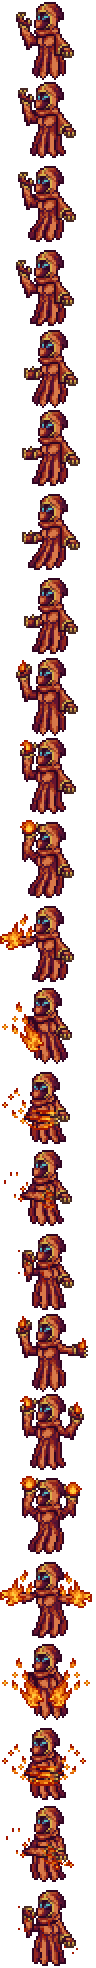
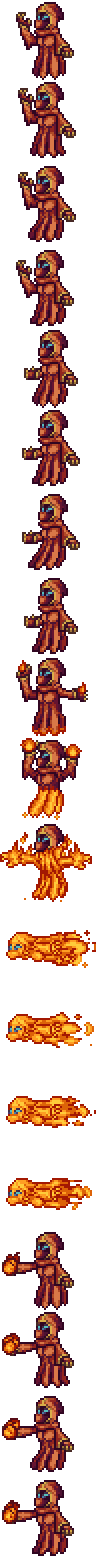
A lot of Ashe bug fix and some tweak for her

diff --git a/NPCs/Bosses/AH/Ashe/Ashe.cs b/NPCs/Bosses/AH/Ashe/Ashe.cs
@@ -14,8 +14,7 @@ namespace AAMod.NPCs.Bosses.AH.Ashe
     {
         public int OrbiterCount = Main.expertMode ? 10 : 8;
 
-        bool Health1 = false;
-        bool Health2 = false;
+        bool Health = false;
 
         public override void SetStaticDefaults()
         {
@@ -59,6 +58,8 @@ namespace AAMod.NPCs.Bosses.AH.Ashe
             npc.direction = npc.spriteDirection = npc.position.X < player.position.X ? 1 : -1;
             RingEffects(); FireMagic(npc);
 
+            npc.damage *= VortexDamage();
+
             Vector2 targetPos;
 
             switch (npc.ai[0])
@@ -75,7 +76,6 @@ namespace AAMod.NPCs.Bosses.AH.Ashe
                     MoveToPoint(wantedVelocity);
 
                     BaseAI.ShootPeriodic(npc, player.Center + new Vector2(Main.rand.Next(-5, 5), Main.rand.Next(-5, 5)), player.width, player.height, ModContent.ProjectileType<AsheShot>(), ref npc.ai[2], 60, npc.damage / 2, 12, false);
-
                     if (npc.ai[1]++ > (Main.expertMode ? 180 : 280))
                     {
                         AIChange();
@@ -95,20 +95,37 @@ namespace AAMod.NPCs.Bosses.AH.Ashe
                     if (!AliveCheck(player))
                         break;
 
-                    wantedVelocity = player.Center - new Vector2(pos, 0);
+                    int firepos = 0;
+                    if (player.Center.X > npc.Center.X) //If NPC's X position is less than the player's
+                    {
+                        firepos = 150;
+                    }
+                    else
+                    {
+                        firepos = -150;
+                    }
+
+                    wantedVelocity = player.Center - new Vector2(firepos, 0);
 
                     MoveToPoint(wantedVelocity);
 
                     BaseAI.ShootPeriodic(npc, player.Center, player.width, player.height, ModContent.ProjectileType<Akuma.AkumaBreath>(), ref npc.ai[2], 10, npc.damage / 2, 12, false);
                     if (npc.ai[1]++ > (Main.expertMode ? 180 : 280))
                     {
+                        npc.ai[1] = 0;
                         AIChange();
                     }
                     break;
-                case 5:
+                case 5: //draw dash frame
                     if (!AliveCheck(player))
                         break;
-                    IdlePhase();
+                    MoveToPoint(wantedVelocity);
+                    if (++npc.ai[1] > 30)
+                    {
+                        npc.ai[1] = 0;
+                        npc.ai[0]++;
+                        npc.netUpdate = true;
+                    }
                     break;
                 case 6: //prepare for fishron dash
                     if (!AliveCheck(player))
@@ -120,9 +137,12 @@ namespace AAMod.NPCs.Bosses.AH.Ashe
                         npc.ai[0]++;
                         npc.ai[1] = 0;
                         npc.netUpdate = true;
-                        npc.velocity = npc.DirectionTo(player.Center) * 40;
+                        npc.velocity = npc.DirectionTo(player.Center) * (npc.life < npc.lifeMax/3 ? 50:40);
+                        if(npc.velocity.Length() < 40f)
+                        {
+                            npc.velocity = Vector2.Normalize(npc.velocity) * (npc.life < npc.lifeMax/3 ? 50:40);
+                        }
                     }
-                    npc.rotation = 0;
                     break;
 
                 case 7: //dashing
@@ -140,9 +160,16 @@ namespace AAMod.NPCs.Bosses.AH.Ashe
                     {
                         npc.ai[1] = 0;
                         npc.ai[2] = 0;
-                        if (++npc.ai[3] >= 3) //dash three times
+                        if (++npc.ai[3] >= (npc.life < npc.lifeMax/3 ? 4:3)) //dash three/Four times
                         {
-                            npc.ai[0]++;
+                            if(npc.life < npc.lifeMax / 3)
+                            {
+                                npc.ai[0] = Main.rand.Next(4) == 0? 4:9;
+                            }
+                            else
+                            {
+                                npc.ai[0]++;
+                            }
                             npc.ai[3] = 0;
                         }
                         else
@@ -165,14 +192,18 @@ namespace AAMod.NPCs.Bosses.AH.Ashe
                     BaseAI.ShootPeriodic(npc, player.Center, player.width, player.height, ModContent.ProjectileType<AsheFire>(), ref npc.ai[2], 60, npc.damage / 2, 12, false);
                     if (npc.ai[1]++ > (Main.expertMode ? 180 : 280))
                     {
+                        if (npc.life < npc.lifeMax / 3 && Main.rand.Next(3) == 0)
+                        {
+                            goto case 5;
+                        }
                         AIChange();
                     }
                     break;
                 case 10:
                     if (NPC.AnyNPCs(ModContent.NPCType<AsheDragon>()))
                     {
-                        npc.ai[0] = 0;
-                        goto case 0;
+                        npc.ai[0] = 12;
+                        goto case 12;
                     }
                     if (!AliveCheck(player))
                         break;
@@ -181,18 +212,24 @@ namespace AAMod.NPCs.Bosses.AH.Ashe
                 case 11:
                     if (!AliveCheck(player))
                         break;
+                    MoveToPoint(wantedVelocity);
                     if (npc.ai[1]++ > 200)
                     {
                         NPC.NewNPC((int)npc.position.X, (int)npc.position.Y, ModContent.NPCType<AsheDragon>());
                         AIChange();
                     }
                     break;
+                case 12:
+                    if (!AliveCheck(player))
+                        break;
+                    IdlePhase();
+                    break;
                 default:
                     npc.ai[0] = 0;
                     goto case 0;
             }
 
-            if (npc.ai[0] != 7)
+            if (npc.ai[0] != 6 && npc.ai[0] != 7)
             {
                 npc.rotation = 0;
             }
@@ -214,28 +251,16 @@ namespace AAMod.NPCs.Bosses.AH.Ashe
 
         public override void FindFrame(int frameHeight)
         {
-            if (npc.frameCounter++ >= 7)
+            if (npc.ai[0] == 1 || npc.ai[0] == 4 || npc.ai[0] == 9)
             {
-                npc.frameCounter = 0;
-                Frame++;
-            }
-            else if (npc.ai[0] == 7)
-            {
-                if (Frame < 8)
+                if (npc.frameCounter++ >= 10)
                 {
-                    Frame = 8;
-                }
-                if (Frame >= 14)
-                {
-                    Frame = 12;
+                    npc.frameCounter = 0;
+                    Frame++;
                 }
             }
-            else if (npc.ai[0] == 1 || npc.ai[0] == 4 || npc.ai[0] == 8)
+            else if (npc.ai[0] == 5)
             {
-                if (Frame < 15 || Frame > 18)
-                {
-                    Frame = 16;
-                }
                 if (npc.frameCounter++ >= 10)
                 {
                     npc.frameCounter = 0;
@@ -244,23 +269,46 @@ namespace AAMod.NPCs.Bosses.AH.Ashe
             }
             else
             {
-                if (!FlyingBack)
+                if (npc.frameCounter++ >= 7)
                 {
-                    if (Frame > 3)
-                    {
-                        Frame = 0;
-                    }
+                    npc.frameCounter = 0;
+                    Frame++;
                 }
-                else
+            }
+            
+            if (npc.ai[0] == 5)
+            {
+                if (Frame < 8 || Frame > 10)
                 {
-                    if (Frame >= 8)
-                    {
-                        Frame = 0;
-                    }
-                    if (Frame < 4)
-                    {
-                        Frame = 4;
-                    }
+                    Frame = 8;
+                }
+            }
+            else if (npc.ai[0] == 6 || npc.ai[0] == 7)
+            {
+                if (Frame >= 14 || Frame < 11)
+                {
+                    Frame = 11;
+                }
+            }
+            else if (npc.ai[0] == 1 || npc.ai[0] == 4 || npc.ai[0] == 9)
+            {
+                if (Frame < 15 || Frame > 18)
+                {
+                    Frame = 15;
+                }
+            }
+            else if (!FlyingBack)
+            {
+                if (Frame > 3)
+                {
+                    Frame = 0;
+                }
+            }
+            else
+            {
+                if (Frame >= 8 || Frame < 4)
+                {
+                    Frame = 4;
                 }
             }
 
@@ -268,6 +316,7 @@ namespace AAMod.NPCs.Bosses.AH.Ashe
             {
                 Frame = 0;
             }
+
             npc.frame.Y = Frame * frameHeight;
         }
 
@@ -344,9 +393,20 @@ namespace AAMod.NPCs.Bosses.AH.Ashe
             {
                 const float distance = 125f;
                 float rotation = 2f * (float)Math.PI / OrbiterCount;
-                if (Health1 && npc.life < npc.lifeMax * (2 / 3))
+                if (Health && npc.life >= npc.lifeMax * .66f)
                 {
-                    Health1 = true;
+                    Health = false;
+                    rotation = 2f * (float)Math.PI / 4;
+                    for (int m = 0; m < 4; m++)
+                    {
+                        int n = NPC.NewNPC((int)npc.Center.X, (int)npc.Center.Y, mod.NPCType("AsheOrbiter"), 0, npc.whoAmI, distance, 300, rotation * m);
+                        if (Main.netMode == 2 && n < 200)
+                            NetMessage.SendData(23, -1, -1, null, n);
+                    }
+                }
+                if (Health && npc.life < npc.lifeMax * .66f && npc.life >= npc.lifeMax * .33f)
+                {
+                    Health = false;
                     for (int m = 0; m < OrbiterCount; m++)
                     {
                         int n = NPC.NewNPC((int)npc.Center.X, (int)npc.Center.Y, mod.NPCType("AsheOrbiter"), 0, npc.whoAmI, distance, 300, rotation * m);
@@ -354,10 +414,10 @@ namespace AAMod.NPCs.Bosses.AH.Ashe
                             NetMessage.SendData(23, -1, -1, null, n);
                     }
                 }
-                if (Health2 && npc.life < npc.lifeMax / 3)
+                if (Health && npc.life < npc.lifeMax * .33f)
                 {
                     OrbiterCount += 2;
-                    Health2 = true;
+                    Health = false;
                     for (int m = 0; m < OrbiterCount; m++)
                     {
                         int n = NPC.NewNPC((int)npc.Center.X, (int)npc.Center.Y, mod.NPCType("AsheOrbiter"), 0, npc.whoAmI, distance, 300, rotation * m);
@@ -449,7 +509,7 @@ namespace AAMod.NPCs.Bosses.AH.Ashe
                 FlyingPositive = false;
                 FlyingNegative = true;
             }
-            if (npc.ai[0] == 7)
+            if (npc.ai[0] == 6 || npc.ai[0] == 7)
             {
                 npc.direction = npc.velocity.X > 0 ? 1 : -1;
             }
@@ -565,11 +625,16 @@ namespace AAMod.NPCs.Bosses.AH.Ashe
         private void RingEffects()
         {
             RingRotation += 0.02f;
-            if (npc.ai[0] == 13 || NPC.AnyNPCs(ModContent.NPCType<AsheOrbiter>()))
+            if (npc.ai[0] == 12 || NPC.AnyNPCs(ModContent.NPCType<AsheOrbiter>()))
             {
                 if (scale >= 1f)
                 {
                     scale = 1f;
+
+                    if(!NPC.AnyNPCs(ModContent.NPCType<AsheOrbiter>()))
+                    {
+                        Health = true;
+                    }
                 }
                 else
                 {
@@ -589,7 +654,7 @@ namespace AAMod.NPCs.Bosses.AH.Ashe
                 }
             }
 
-            if (npc.ai[0] == 1 || npc.ai[0] == 6 || npc.ai[0] == 11 || npc.ai[0] == 13)
+            if (npc.ai[0] == 1 || npc.ai[0] == 6 || npc.ai[0] == 11)
             {
                 if (scale2 >= 1f)
                 {
@@ -610,6 +675,15 @@ namespace AAMod.NPCs.Bosses.AH.Ashe
                 {
                     scale2 = 0;
                 }
+            }
+
+            if(scale >= 1f || scale2 >= 1f)
+            {
+                npc.dontTakeDamage = true;
+            }
+            else
+            {
+                npc.dontTakeDamage = false;
             }
         }
 

diff --git a/NPCs/Bosses/Shen/FuryAshe.cs b/NPCs/Bosses/Shen/FuryAshe.cs
@@ -599,7 +599,7 @@ namespace AAMod.NPCs.Bosses.Shen
             Texture2D RingTex1 = mod.GetTexture("NPCs/Bosses/AH/Ashe/AsheRing2");
             Texture2D RitualTex = mod.GetTexture("NPCs/Bosses/AH/Ashe/AsheRitual");
             Texture2D ShieldTex = mod.GetTexture("NPCs/Bosses/AH/Ashe/AsheShield");
-            Texture2D Barrier = mod.GetTexture("NPCs/Bosses/AH/Ashe/AsheBarrier");
+            Texture2D Barrier = mod.GetTexture("NPCs/Bosses/Shen/AsheBarrier");
             Rectangle RingFrame = new Rectangle(0, 0, RingTex.Width, RingTex.Height);
             Rectangle RitualFrame = new Rectangle(0, 0, RitualTex.Width, RitualTex.Height);
             Rectangle BarrierFrame = new Rectangle(0, 0, ShieldTex.Width, ShieldTex.Height);

diff --git a/Lang.cs b/Lang.cs
@@ -72,7 +72,7 @@ namespace AAMod
                         case "downedSistersInfo":
                         return "Chaotic energy grows in the deepest parts of the world.";
                         case "downedBoss2Info":
-                        return "You hear a hum of harmony from the Terrarium after the defeat of a great AMessage...";
+                        return "You hear a hum of harmony from the Terrarium after the defeat of a great demon...";
                         case "downedBoss3Info1":
                         return "Bones of the ancient past burst with energy!";
                         case "downedBoss3Info2":

diff --git a/NPCs/Bosses/AH/Ashe/AsheOrbiter.cs b/NPCs/Bosses/AH/Ashe/AsheOrbiter.cs
@@ -72,7 +72,7 @@ namespace AAMod.NPCs.Bosses.AH.Ashe
             }
             npc.oldPos[0] = npc.position;
 
-            if (rotValue == -1f) rotValue = npc.ai[0] % ((Ashe)ashe.modNPC).OrbiterCount * ((float)Math.PI * 2f / ((Ashe)ashe.modNPC).OrbiterCount);
+            if (rotValue == -1f) rotValue = npc.ai[3];
             rotValue += 0.05f;
             while (rotValue > (float)Math.PI * 2f) rotValue -= (float)Math.PI * 2f;
             npc.Center = BaseUtility.RotateVector(ashe.Center, ashe.Center + new Vector2(140f, 0f), rotValue);

diff --git a/NPCs/Bosses/Akuma/Awakened/AsheA.cs b/NPCs/Bosses/Akuma/Awakened/AsheA.cs
@@ -12,7 +12,7 @@ namespace AAMod.NPCs.Bosses.Akuma.Awakened
         public override void SetStaticDefaults()
         {
             DisplayName.SetDefault("Ashe Akuma");
-            Main.npcFrameCount[npc.type] = 24;
+            Main.npcFrameCount[npc.type] = 19;
         }
 
 
